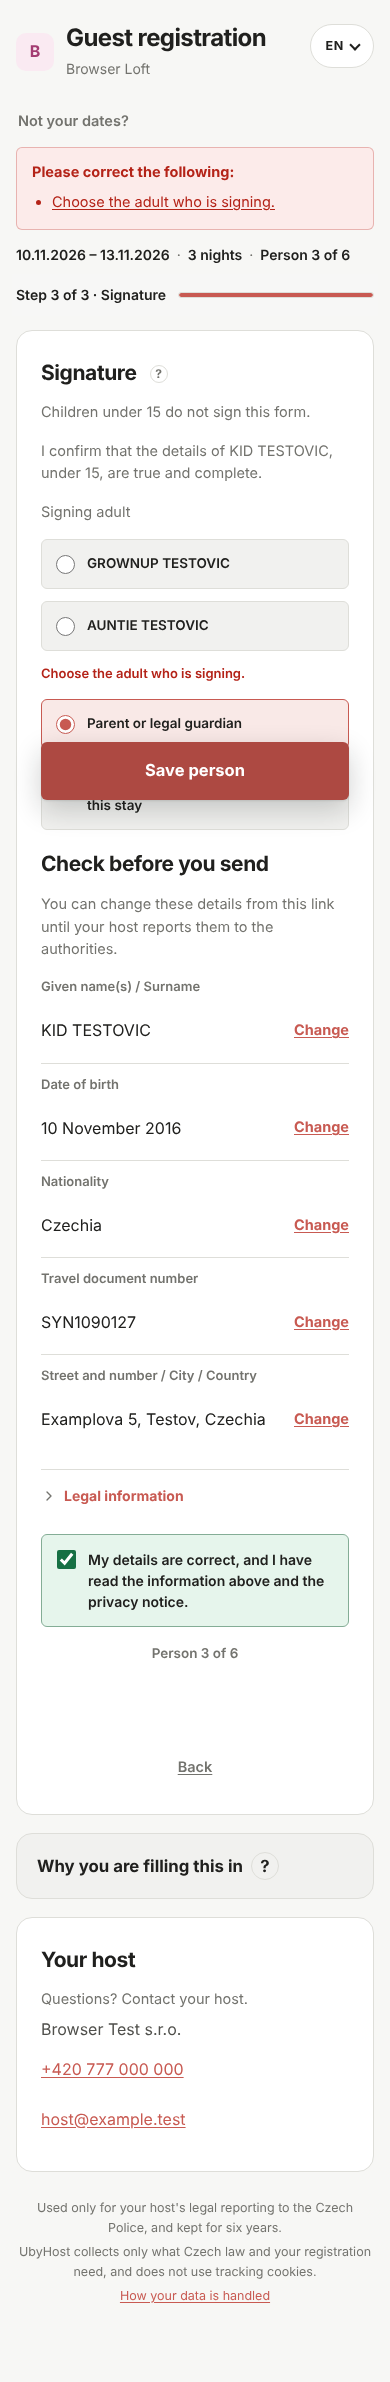
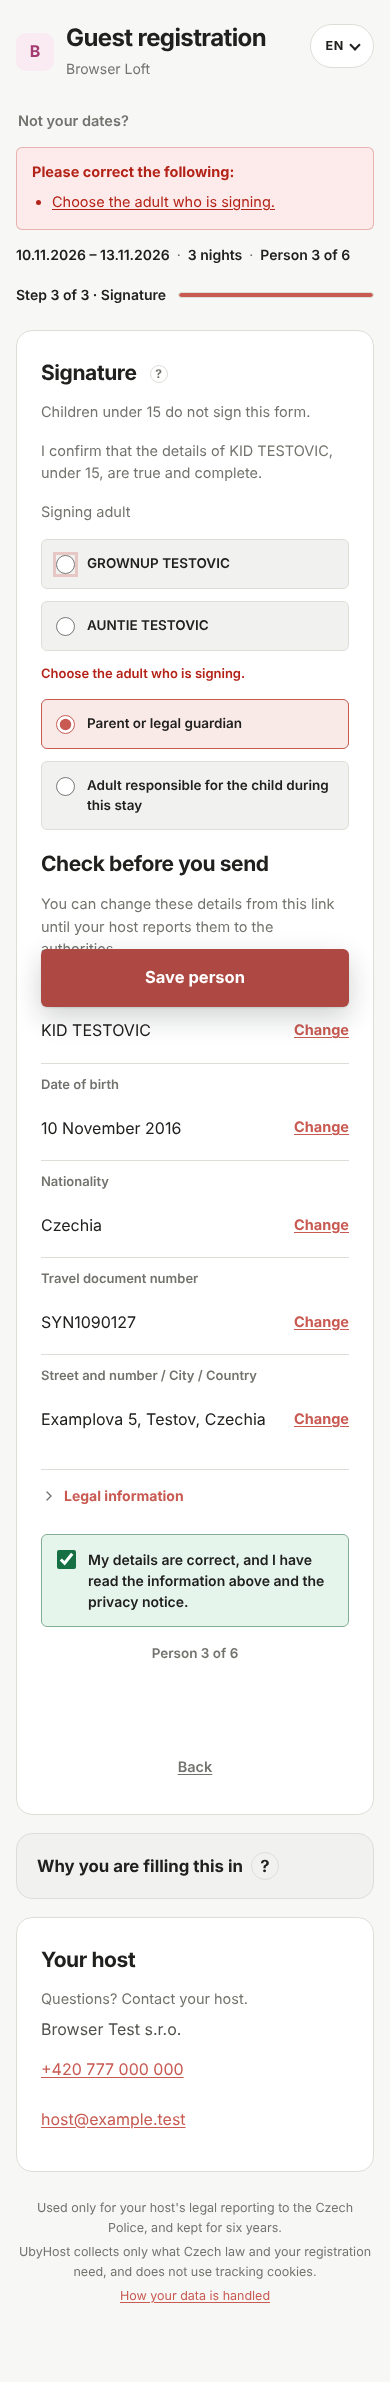
1090 attempt 3: the error summary link lands on the adult choice
Claude-Session: https://claude.ai/code/session_01Cjmb7MEnJNxMVoUpeN7Hcv

diff --git a/App/app/templates/guest/form.html b/App/app/templates/guest/form.html
@@ -337,11 +337,11 @@
       <div class="g-field" id="sign-for-child">
         <p class="g-intro" id="sign-for-child-text" data-template="{{ t('sign_for_child', names='{names}') }}">{{ t('sign_for_child', names=(val('first_name') ~ ' ' ~ val('surname')).strip()) }}</p>
         {% if child_signers|length > 1 %}
-        <div id="sign-for-who" role="radiogroup" aria-labelledby="sign-for-who-text">
+        <div id="sign-for-who" role="radiogroup" aria-labelledby="sign-for-who-text" {{ invalid('signed_by') }}>
           <p class="g-intro" id="sign-for-who-text">{{ t('sign_for_who') }}</p>
           {% for a in child_signers %}
           <label class="checkline">
-            <input type="radio" name="signed_by" value="{{ a.id }}"{% if selected_signer == a.id|string %} checked{% endif %}>
+            <input type="radio" name="signed_by" value="{{ a.id }}"{% if loop.first %} id="signed_by"{% endif %}{% if selected_signer == a.id|string %} checked{% endif %}>
             <span>{{ a.name }}</span>
           </label>
           {% endfor %}

diff --git a/App/tests/test_under15_signature_1090.py b/App/tests/test_under15_signature_1090.py
@@ -141,12 +141,16 @@ def test_several_adults_become_radios(stay):
     second = _save(browser, stay, "Auntie", "1.1.1985")
     html = _new(browser, stay)
     for row in (first, second):
-        assert f'<input type="radio" name="signed_by" value="{row["id"]}">' in html
+        assert re.search(
+            r'<input type="radio" name="signed_by" value="%d"( id="signed_by")?>' % row["id"], html
+        )
+    # The error summary's "#signed_by" link lands on the first adult.
+    assert html.count('id="signed_by"') == 1
     assert i18n.translator("en")("sign_for_who") in html
     assert '<input type="hidden" name="signed_by"' not in html
     # Two groups, each named: the adults by their heading, the roles by the sentence.
     assert _tag(html, "sign-for-who") == (
-        '<div id="sign-for-who" role="radiogroup" aria-labelledby="sign-for-who-text">'
+        '<div id="sign-for-who" role="radiogroup" aria-labelledby="sign-for-who-text" >'
     )
     assert _tag(html, "sign-for-role") == (
         '<div id="sign-for-role" role="radiogroup" aria-labelledby="sign-for-child-text">'
@@ -165,6 +169,10 @@ def test_a_role_with_several_adults_and_none_chosen_is_asked_for(stay):
     assert response.status_code == 422
     message = i18n.translator("en")("sign_for_who_missing")
     assert f'id="signed_by-error">{message}</div>' in response.text
+    assert response.text.count('id="signed_by"') == 1
+    assert '<a href="#signed_by">' in response.text
+    who = _tag(response.text, "sign-for-who")
+    assert 'aria-invalid="true"' in who and 'aria-describedby="signed_by-error"' in who
     assert 'name="child_sign_role" value="parent" checked' in response.text
     rows = db.query("SELECT * FROM guest WHERE reservation_id = ?", (stay["reservation_id"],))
     assert not [r for r in rows if r["first_name"].upper() == "KID"]
@@ -258,8 +266,9 @@ def test_a_rerender_keeps_the_ticks_and_a_language_switch_does_not(stay):
         browser, stay, "Kid", _child_birth(stay), signature="",
         signed_by=str(second["id"]), child_sign_role="responsible_adult",
     )
-    assert f'name="signed_by" value="{second["id"]}" checked' in html
-    assert f'name="signed_by" value="{first["id"]}">' in html
+    assert re.search(r'name="signed_by" value="%d"( id="signed_by")? checked' % second["id"], html)
+    assert re.search(r'name="signed_by" value="%d"( id="signed_by")?>' % first["id"], html)
+    assert html.count('id="signed_by"') == 1
     assert 'name="child_sign_role" value="responsible_adult" checked' in html
     assert 'name="child_sign_role" value="parent">' in html
     # The sentence carries the child's own name from step one.

diff --git a/App/tests/test_under15_signature_1090_browser.py b/App/tests/test_under15_signature_1090_browser.py
@@ -477,6 +477,10 @@ def test_two_adults_are_two_named_groups(live_server, browser, monkeypatch):
         assert _state(page)["childRole"] == ["parent"]
         gaps = page.evaluate(GAPS_JS)
         assert min(gaps["rows"]) >= 12 and gaps["groups"] >= 12, gaps
+        # The summary's link lands on the adult choice.
+        page.locator('a[href="#signed_by"]').click()
+        page.wait_for_timeout(600)
+        assert page.evaluate("() => document.activeElement.name") == "signed_by"
         _shot(page, "child-two-adults-390.png")
 
         page.locator('#sign-for-who input[type=radio]').nth(1).check()

diff --git a/docs/tasks/1090-report.md b/docs/tasks/1090-report.md
@@ -63,3 +63,8 @@ Merge 1089 first, then this branch's PR with `scripts/merge-pr-on-green.sh`.
 - New screenshot `child-two-adults-390.png`: the 422 with two adult rows, the red line "Choose the adult who is signing." under them, then the role rows; all rows 12 px apart. `adult-signs-for-*`: the sentence now clears the pad by 16 px. The top summary link for the new error has no field id to jump to.
 - Commands, one file at a time, 0 skipped: `test_under15_signature_1090.py` 31 passed; `test_under15_signature_1090_browser.py` 11; `test_guest_browser_e2e.py` 55; `test_a11y_guard_browser.py` 4; `test_layout_lint_browser.py` 4; `test_guest_form_draft_1087_browser.py` 10; `test_static_versions.py` 3; `test_guest_title_1091_browser.py` 10; `test_guest_languages.py` 47; ruff: All checks passed.
 - Acceptance: "1089 on main and merged in" now holds. `git diff --stat origin/main` still includes `tests/test_guest_browser_e2e.py` (deviation 5).
+
+## Attempt 3
+
+- The 422 summary link `#signed_by` now lands on the first adult radio (it carries `id="signed_by"`); `#sign-for-who` gets `aria-invalid` and `aria-describedby` from the `invalid` macro. No CSS or script change, no cache bump.
+- `test_under15_signature_1090.py` 31 passed; `test_under15_signature_1090_browser.py` 11 passed; `test_guest_browser_e2e.py` 55 passed; `test_a11y_guard_browser.py` 4 passed; 0 skipped; ruff: All checks passed.
